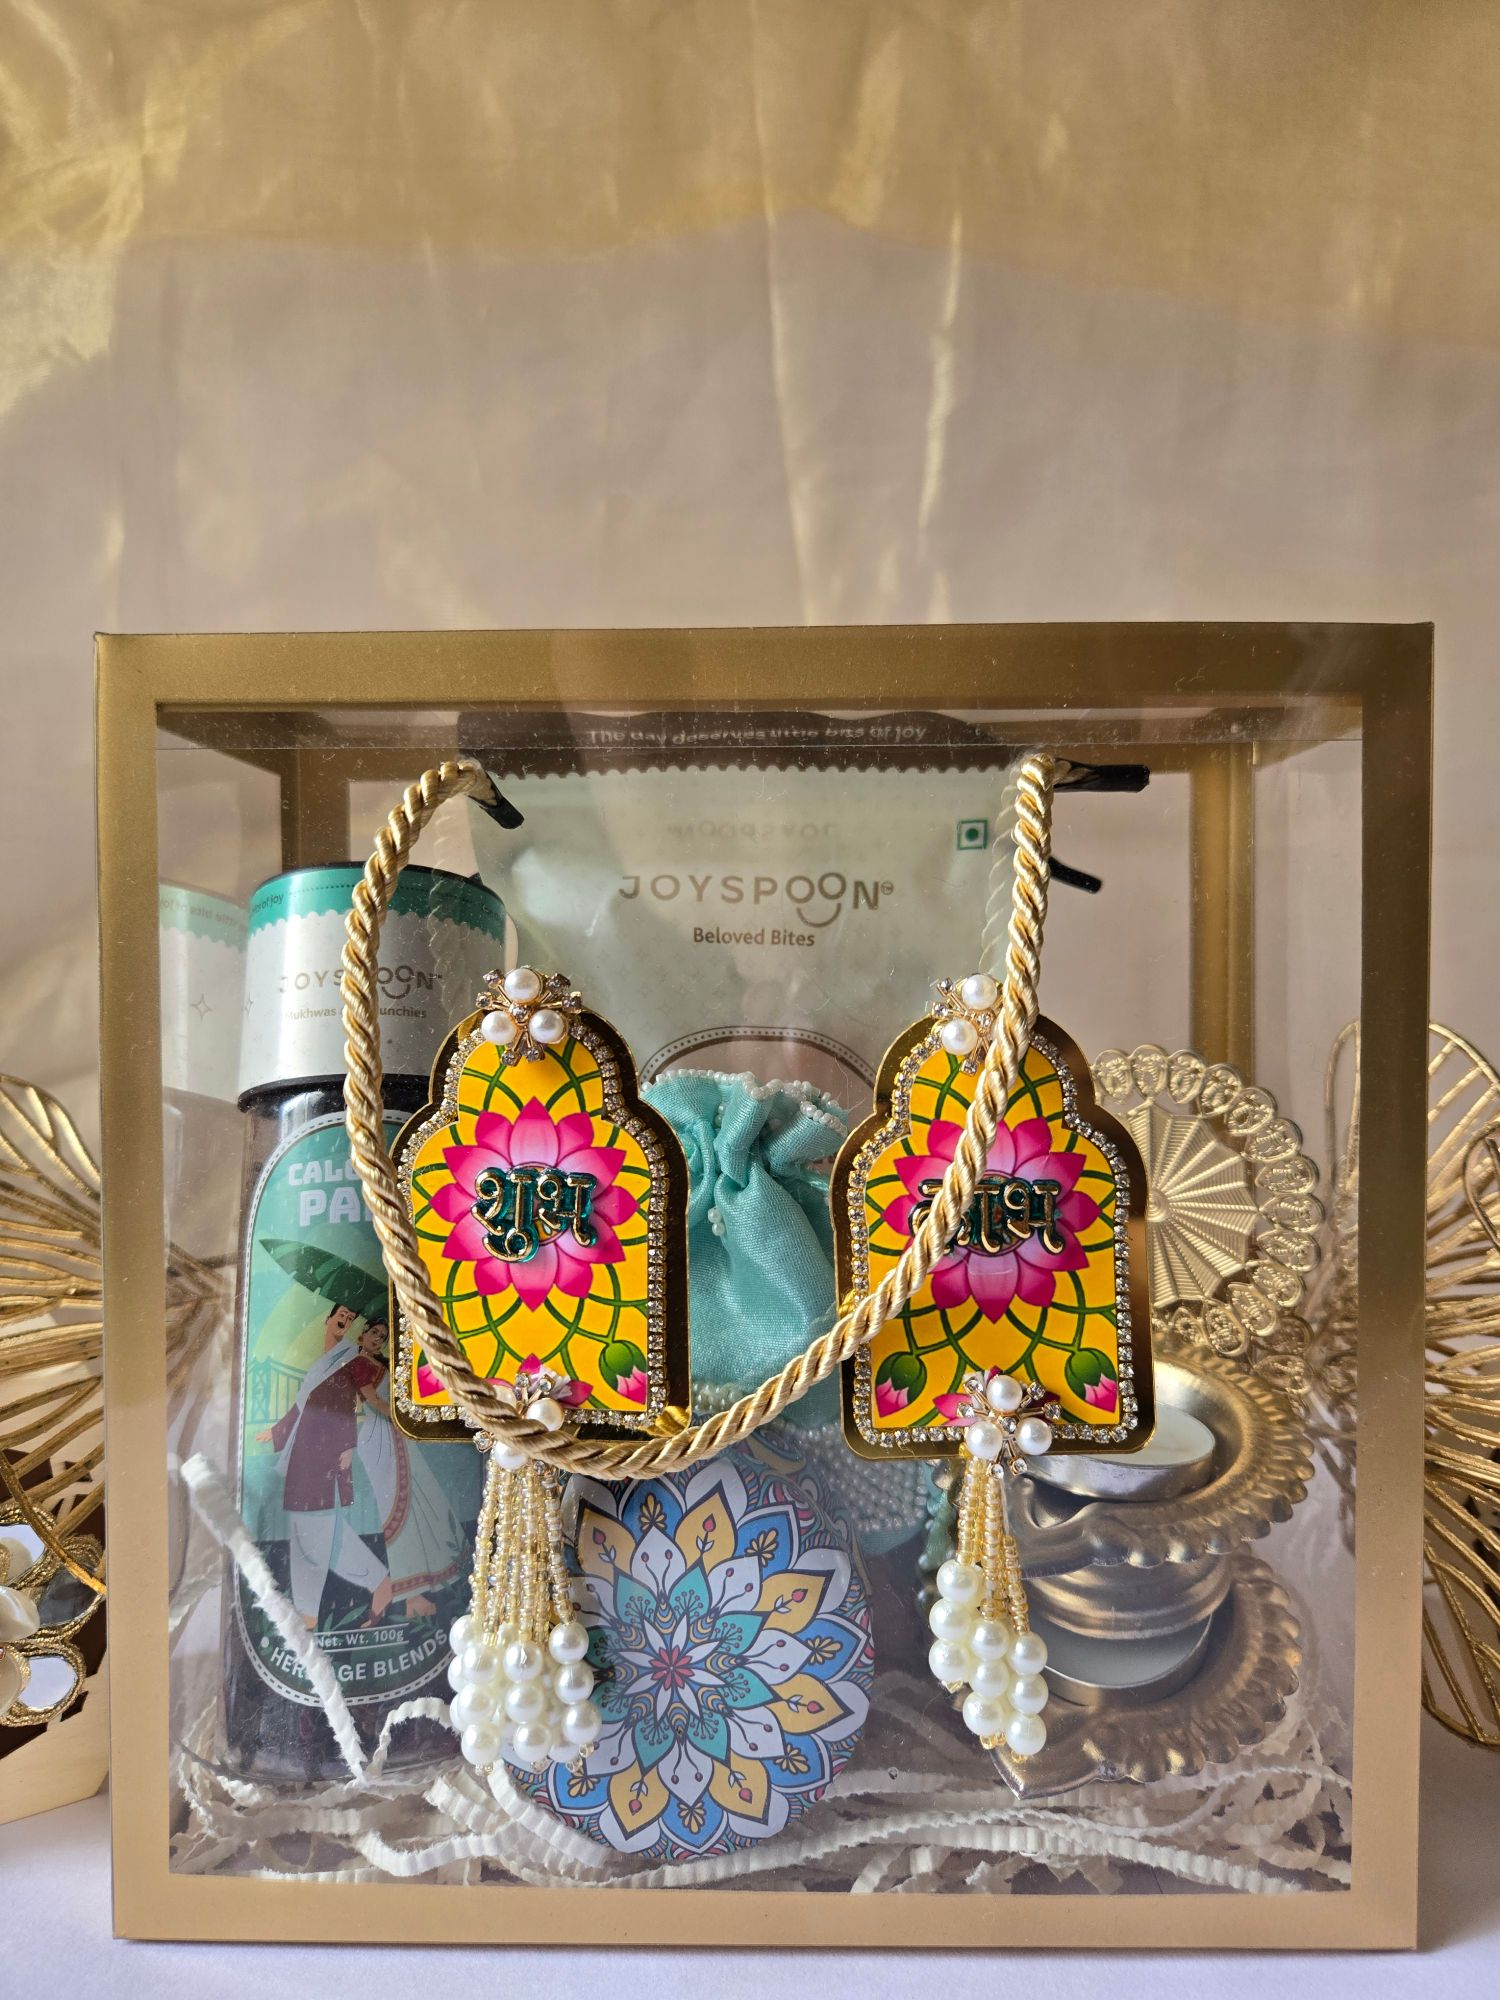
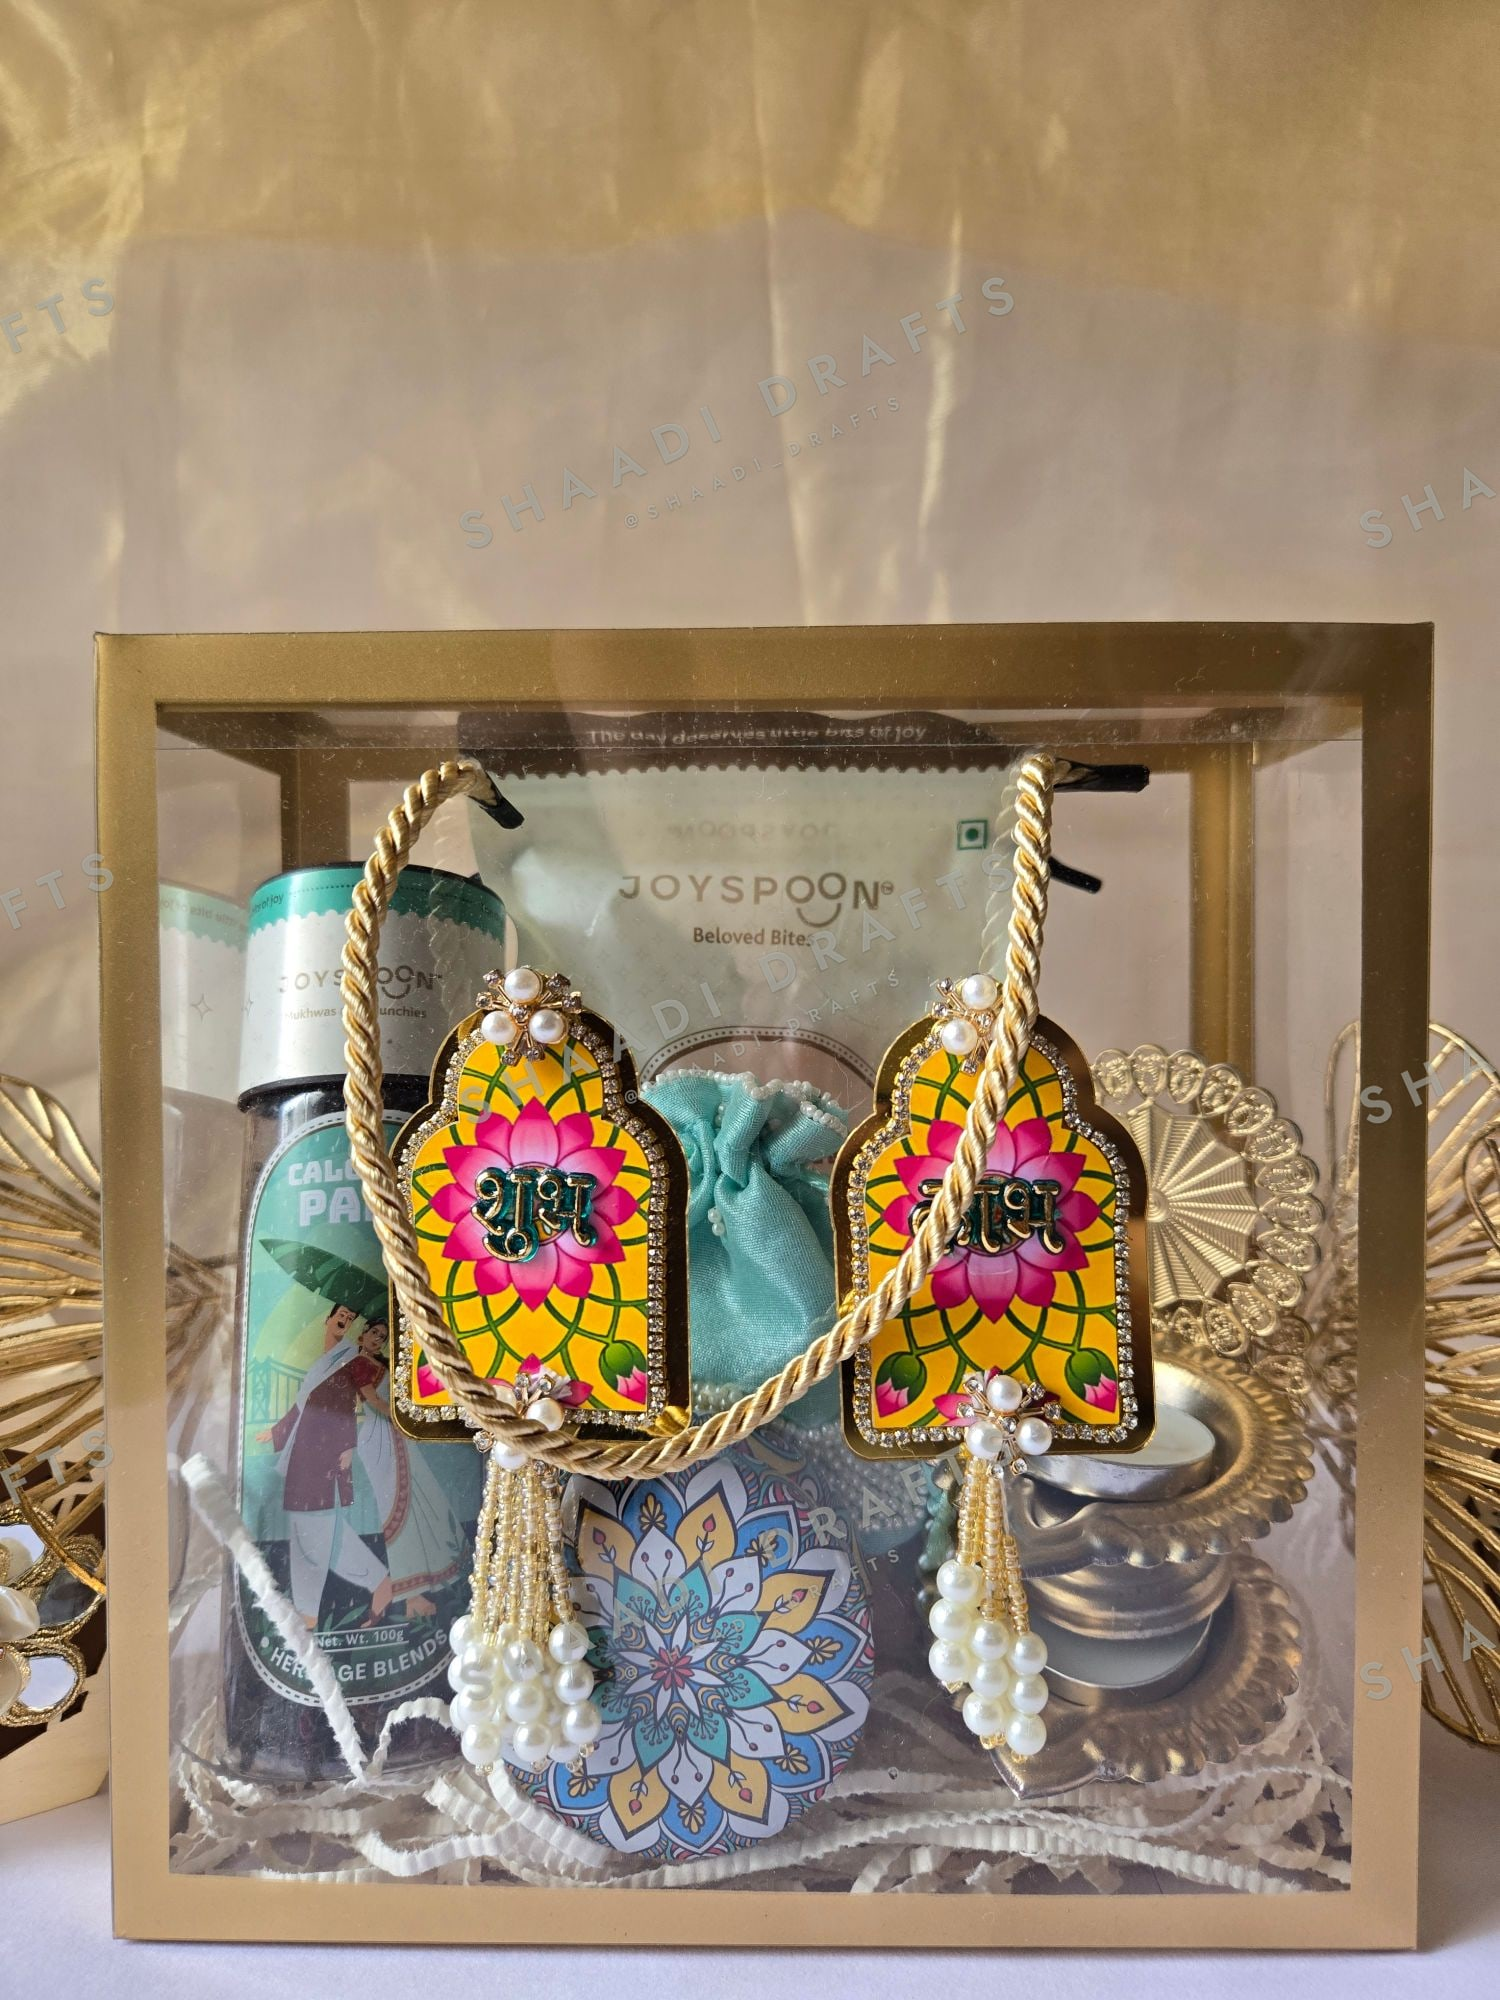
Content fixes, shagun envelopes in return favours, watermarked photos
- Bridesmaid box (12 items), Aye Bhai box (8) and Polaroid memory bag (8)
  list exactly what's inside; card games mention the 112-card deck
- Return favours: new Gota Shagun Envelopes piece under Weddings, the
  envelopes added to the Weddings card rotation, and the beaded potlis
  pop-up shows both photos (WorkPiece.gallery)
- Mobile stacked-card carousels: captions on the cards behind (now
  links) and the View details hint no longer show through; captions are
  no longer clipped by Swiper's rounded card corners
- Photos are watermarked: originals moved to assets/photos, and
  npm run watermark bakes a faint repeating SHAADI DRAFTS pattern into
  the copies in public/. Brochures build from the clean originals

Claude-Session: https://claude.ai/code/session_01BSwwgXTxyaGfUVW8tzXnRB

diff --git a/src/content/work.ts b/src/content/work.ts
@@ -17,6 +17,8 @@ export type WorkPiece = {
   inside: string[];
   image: string;
   alt: string;
+  /** Extra photos shown in the quick view after the main one. */
+  gallery?: { image: string; alt: string }[];
   /** Intrinsic size for flat artwork: shown uncropped instead of in an arch frame. */
   size?: { width: number; height: number };
 };
@@ -29,17 +31,23 @@ export const work: WorkPiece[] = [
     occasion: "Bridesmaid proposal",
     category: "wedding",
     story:
-      "A sage keepsake chest that asks the big question, lined with a string of polaroids from years of friendship.",
+      "A rattan hamper box that asks the big question, with a polaroid string of years of friendship, jewellery, a silk-scarf tote and a few sweet treats.",
     inside: [
+      "Rattan hamper box",
       "Proposal card",
       "Polaroid photo string",
-      "Jewellery case",
-      "Mini tote with silk scarf",
-      "Fairy-light jar",
-      "Chocolate",
+      "Jewellery box",
+      "Mini tote bag with silk scarf",
+      "Jute potli with sweet goodies",
+      "Automatic stirring coffee mug with Sleepy Owl coffee sachets",
+      "Cadbury Rum & Raisin chocolate",
+      "Pair of earrings",
+      "Custom fridge magnet",
+      "Custom postcard",
+      "Premium packaging",
     ],
     image: "/work/bridesmaid-proposal-box.jpg",
-    alt: "Sage green chest with a Will you be my bridesmaid card, a polaroid string, a jewellery case, a mini tote and a fairy-light jar",
+    alt: "Rattan hamper box with a Will you be my bridesmaid card, a polaroid string, a jewellery box, a mini tote with a silk scarf, a jute potli and Cadbury Rum & Raisin",
   },
   {
     slug: "beaded-potlis-envelopes",
@@ -51,6 +59,27 @@ export const work: WorkPiece[] = [
     inside: ["Pearl-beaded potlis", "Beaded shagun envelopes", "Gota & stone detailing"],
     image: "/work/beaded-potlis-envelopes-2.jpg",
     alt: "Hand-beaded potlis in ivory, red and peach with pink and lilac beaded shagun envelopes",
+    gallery: [
+      {
+        image: "/work/beaded-potlis-envelopes.jpg",
+        alt: "Hand-beaded potlis in coral, sky blue, mint and ivory with lilac and pink beaded shagun envelopes beside pink roses",
+      },
+    ],
+  },
+  {
+    slug: "gota-shagun-envelopes",
+    title: "Gota Shagun Envelopes",
+    occasion: "Return favours",
+    category: "wedding",
+    story:
+      "Hand-stitched fabric envelopes with gota leaf detailing, for shagun that looks as good as it feels. Colours mixed to match the wedding.",
+    inside: [
+      "Fabric envelope with gota-patti trim",
+      "Rani pink, red, yellow, beige & sage green",
+      "Made in bulk",
+    ],
+    image: "/diwali/gota-shagun-envelopes.jpg",
+    alt: "Fabric shagun envelopes in pink, red, yellow, beige and green with gold gota leaf stitching",
   },
   {
     slug: "bhai-box",
@@ -58,16 +87,19 @@ export const work: WorkPiece[] = [
     occasion: "Groomsman gift",
     category: "wedding",
     story:
-      "For the brother who has to get the suit stitched: inside jokes on cards, a sealed letter and a bow tie for the big day.",
+      "For the brother who has to get the suit stitched: his photo card, the save the date, a wax-sealed note, a framed photo and a bow tie for the big day.",
     inside: [
+      "Black hamper box",
       "Personalised photo card",
-      "Wax-sealed letter",
-      "Inside-joke quote cards",
+      "Save the date invite",
+      "Automatic stirring coffee mug with charging cable",
+      "Wax-sealed personalised note",
+      "Photo frame",
       "Bow tie",
       "Coffee & dark chocolate",
     ],
     image: "/work/bhai-box.jpg",
-    alt: "Charcoal gift box with a personalised Bhai photo card, a wax-sealed letter, quote cards, a bow tie, coffee and chocolate",
+    alt: "Black hamper box with a personalised Bhai photo card, a save the date, a wax-sealed note, a photo frame, a bow tie, coffee and dark chocolate",
   },
   {
     slug: "arnav-nayan-invite",
@@ -171,8 +203,8 @@ export const work: WorkPiece[] = [
     occasion: "Custom card deck",
     category: "personal",
     story:
-      "A full card-game deck starring the two of them: their photos on the cards, and in-jokes on every action card. ‘Skip → straight to hugs.’",
-    inside: ["Photo cards", "Personalised action cards", "Printed box"],
+      "A full 112-card deck starring the two of them: their photos on the cards, and in-jokes on every action card. ‘Skip → straight to hugs.’",
+    inside: ["112 cards", "Photo cards", "Personalised action cards", "Printed box"],
     image: "/work/card-game-couples.jpg",
     alt: "Personalised Couple's Edition card game with the couple's photos on the cards and custom messages like Skip, straight to hugs",
   },
@@ -182,8 +214,8 @@ export const work: WorkPiece[] = [
     occasion: "Custom card deck",
     category: "personal",
     story:
-      "The same idea for a best friend: childhood photos, then and now, on a deck made for game night.",
-    inside: ["Photo cards", "Custom rules & messages", "Printed box"],
+      "The same idea for a best friend: a 112-card deck with childhood photos, then and now, made for game night.",
+    inside: ["112 cards", "Photo cards", "Custom rules & messages", "Printed box"],
     image: "/work/card-game-best-friends.jpg",
     alt: "Red Best Friends Edition card game box printed with photos of two friends as children and today",
   },
@@ -192,8 +224,18 @@ export const work: WorkPiece[] = [
     title: "Polaroid Memory Bag",
     occasion: "For a best friend",
     category: "personal",
-    story: "Nicknames and memories on hanging polaroids, with a few pretty things tucked inside.",
-    inside: ["Polaroid tags with nicknames", "Skincare", "Pendant necklace", "Handwritten note"],
+    story:
+      "Nicknames and memories on hanging polaroids, with skincare, a pendant, perfume and a custom note tucked inside.",
+    inside: [
+      "Premium PVC hamper box (8″ × 8″ × 4″)",
+      "Skincare",
+      "Pendant necklace",
+      "Bellavita perfume (60 ml)",
+      "Face mask",
+      "Custom note",
+      "Polaroid pictures",
+      "Premium packaging",
+    ],
     image: "/work/polaroid-memory-bag.jpg",
     alt: "Clear gold-framed bag hung with personalised polaroid photos and handwritten nicknames",
   },

diff --git a/assets/watermark-tile.html b/assets/watermark-tile.html
@@ -1,0 +1,8 @@
+<!doctype html><html><head><style>
+@font-face{font-family:Jost;font-weight:600;src:url("file:///home/user/shaadi-drafts-ui/node_modules/@fontsource/jost/files/jost-latin-600-normal.woff2")}
+html,body{margin:0;background:transparent}
+.t{width:1000px;height:640px;position:relative;overflow:hidden}
+.w{position:absolute;left:50%;top:50%;transform:translate(-50%,-50%) rotate(-24deg);font-family:Jost;font-weight:600;font-size:58px;letter-spacing:18px;white-space:nowrap;
+color:rgba(255,255,255,.38);text-shadow:0 0 2px rgba(40,44,29,.30),0 1px 2px rgba(40,44,29,.22)}
+.w small{display:block;text-align:center;font-size:20px;letter-spacing:12px;margin-top:6px}
+</style></head><body><div class="t"><div class="w">SHAADI DRAFTS<small>@SHAADI_DRAFTS</small></div></div></body></html>

diff --git a/src/app/globals.css b/src/app/globals.css
@@ -238,15 +238,17 @@
     opacity: 0.6;
     transform: scale(0.95);
   }
+  /* Swiper clips stacked cards; the photo already has rounded corners, so let the caption show */
   .sd-cards .swiper-slide {
-    border-radius: 1.5rem;
+    overflow: visible;
   }
   /* In the stacked deck only the top card's caption shows */
-  .sd-cards .swiper-cards .swiper-slide :is(p, h3) {
+  .sd-cards .swiper-cards .swiper-slide :is(p, h3, a, [data-qv-hint]) {
     transition: opacity 0.4s;
   }
-  .sd-cards .swiper-cards .swiper-slide:not(.swiper-slide-active) :is(p, h3) {
+  .sd-cards .swiper-cards .swiper-slide:not(.swiper-slide-active) :is(p, h3, a, [data-qv-hint]) {
     opacity: 0;
+    pointer-events: none;
   }
 }
 

diff --git a/src/content/occasions.ts b/src/content/occasions.ts
@@ -38,6 +38,11 @@ export const occasions: Occasion[] = [
         label: "Beaded potlis & envelopes",
       },
       {
+        image: "/diwali/gota-shagun-envelopes.jpg",
+        alt: "Hand-stitched gota shagun envelopes in pink, red, yellow, beige and green",
+        label: "Shagun envelopes",
+      },
+      {
         image: "/work/save-the-date-shraddha-shubham.webp",
         alt: "Layered arch save the date cards with lavender sprigs",
         label: "Save the dates",

diff --git a/src/components/quick-view.tsx b/src/components/quick-view.tsx
@@ -173,6 +173,7 @@ export function QuickViewTrigger({
       {hint && (
         <span
           aria-hidden="true"
+          data-qv-hint
           className={`bg-card/90 text-ink pointer-events-none absolute ${badgeClass} flex items-center gap-1.5 rounded-full px-3 py-1.5 text-[0.72rem] font-semibold opacity-90 shadow-sm backdrop-blur transition md:opacity-0 md:group-hover/qv:opacity-100`}
         >
           <svg

diff --git a/src/lib/quick-view.ts b/src/lib/quick-view.ts
@@ -46,7 +46,10 @@ export function workView(w: WorkPiece): QuickViewItem {
     title: w.title,
     eyebrow: w.occasion,
     description: w.story,
-    images: [{ src: w.image, alt: w.alt }],
+    images: [
+      { src: w.image, alt: w.alt },
+      ...(w.gallery ?? []).map((g) => ({ src: g.image, alt: g.alt })),
+    ],
     items: w.inside,
     cta: {
       href: whatsappUrl(

diff --git a/README.md b/README.md
@@ -29,6 +29,18 @@ src/
 legacy/index.html       The previous single-file site, kept for reference until cutover
 ```
 
+### Photos and watermark
+
+Original photos live in `assets/photos/{diwali,work}`. The site serves watermarked copies from
+`public/{diwali,work}` (a faint repeating "SHAADI DRAFTS · @shaadi_drafts" pattern, baked into the file so it
+survives downloads and screenshots). After adding or replacing a photo in `assets/photos`, run:
+
+```bash
+npm run watermark
+```
+
+Brochures are built from the clean originals. The founder portrait is not watermarked.
+
 ### Updating content
 
 - **Founder:** edit `src/content/founder.ts`. Add a portrait to `public/` and render it in the founder
